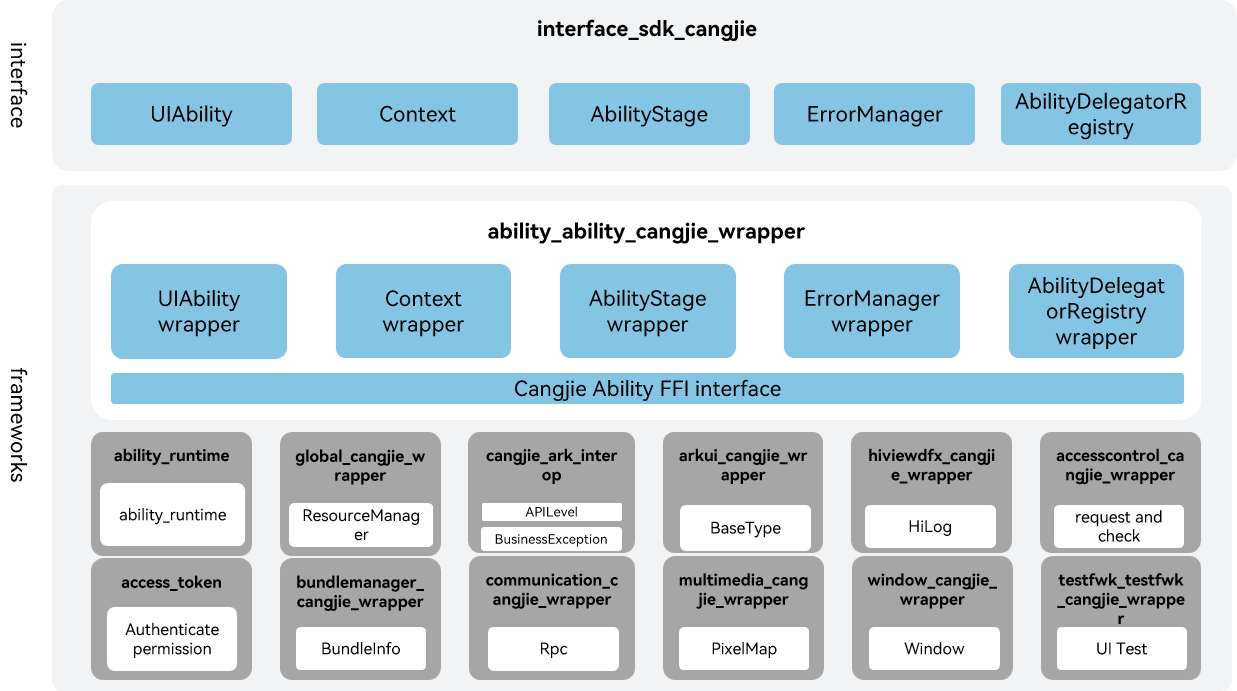
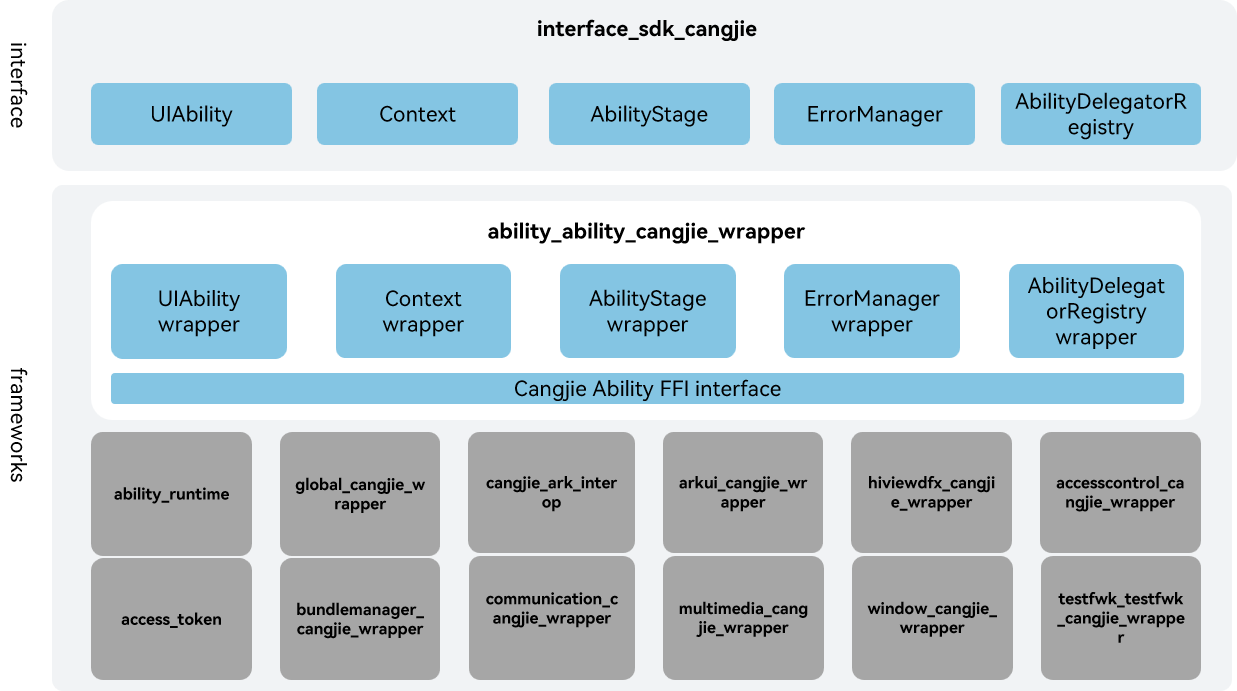
fix_readme

Changed region(s): [[0.0614, 0.6382, 0.983, 0.9725], [0.0922, 0.6382, 0.1843, 0.6686], [0.6758, 0.4255, 0.7065, 0.4559]]

diff --git a/README_zh.md b/README_zh.md
@@ -1,8 +1,8 @@
-# 元能力仓颉接口
+# 元能力仓颉封装
 
 ## 简介
 
-元能力仓颉接口是在OpenHarmony上基于元能力子系统能力之上封装的仓颉API。元能力子系统实现对Ability的运行及生命周期进行统一的调度和管理，应用进程能够支撑多个Ability，Ability具有跨应用进程间和同一进程内调用的能力。Ability管理服务统一调度和管理应用中各Ability，并对Ability的生命周期变更进行管理。当前开放的元能力仓颉接口仅支持standard设备。
+元能力仓颉封装实现对Ability的运行及生命周期进行统一的调度和管理，应用进程能够支撑多个Ability，Ability具有跨应用进程间和同一进程内调用的能力。Ability管理服务统一调度和管理应用中各Ability，并对Ability的生命周期变更进行管理。当前开放的元能力仓颉接口仅支持standard设备。
 
 ## 系统架构
 
@@ -12,23 +12,36 @@
 
 如架构图所示：
 
-- UIAbility：UIAbility是包含UI界面的应用组件，提供UIAbility组件创建、销毁、前后台切换等生命周期回调的能力。开发者可通过继承此类来实现对UIAbility组件的监控能力。应用上下文提供了获取组件信息的能力。
-- 应用上下文：应用上下文提供了Ability或Application的上下文的基础能力，包括访问特定应用程序的资源等。UIAbility组件的上下文提供了拉起其他UIAbility、销毁UIAbility的能力。开发者可通过UIAbilityContext获取相关信息或拉起其他UIAbility。
-- 组件管理器：一个Module级别的组件管理器，用于进行Module级别的资源预加载、线程创建等初始化操作，以及维护Module下的应用状态。
-- 错误观测管理：提供了对错误观察器的注册和注销能力。当开发者需要注册或注销错误观察器时，可以使用其提供的接口。
-- 自动化测试框架管理：开发者可通过此模块来监视指定的Ability的生命周期状态更改和获取测试参数。
+接口层：
+
+- UIAbility：面向开发者提供的UIAbility的API能力。UIAbility是包含UI界面的应用组件，提供UIAbility组件创建、销毁、前后台切换等生命周期回调的能力。开发者可通过继承此类来实现对UIAbility组件的监控能力。应用上下文提供了获取组件信息的能力。
+- 应用上下文：面向开发者提供的应用上下文的API能力。应用上下文提供了Ability或Application的上下文的基础能力，包括访问特定应用程序的资源等。UIAbility组件的上下文提供了拉起其他UIAbility、销毁UIAbility的能力。开发者可通过UIAbilityContext获取相关信息或拉起其他UIAbility。
+- 组件管理器：面向开发者提供的组件管理器的API能力。一个Module级别的组件管理器，用于进行Module级别的资源预加载、线程创建等初始化操作，以及维护Module下的应用状态。
+- 错误观测管理：面向开发者提供的错误观测管理的API能力。提供了对错误观察器的注册和注销能力。当开发者需要注册或注销错误观察器时，可以使用其提供的接口。
+- 自动化测试框架管理：面向开发者提供的自动化测试框架管理API能力。开发者可通过此模块来监视指定的Ability的生命周期状态更改和获取测试参数。
+
+框架层：
+
+- UIAbility封装：基于底层元能力运行时部件提供的元能力基础功能封装，提供用户可继承的UIAbility类。
+- 应用上下文封装：基于底层元能力运行时部件提供的元能力基础功能封装，通过Context及其子类提供不同的上下文能力。
+- 组件管理器封装：基于底层元能力运行时部件提供的元能力基础功能封装，通过AbilityStage类提供组件管理器能力。
+- 错误观测管理封装：基于底层元能力运行时部件提供的元能力基础功能封装，通过ErrorManager类提供错误观测管理能力。
+- 自动化测试框架管理封装：基于底层元能力运行时部件提供的元能力基础功能封装，通过AbilityDelegator类及TestRunner类提供自动化测试框架管理能力。
 - 仓颉元能力FFI接口定义：负责定义C语言互操作仓颉接口，用于实现仓颉元能力的能力。
-- 元能力基础框架模块：负责提供元能力基础功能，封装C语言接口提供给仓颉进行互操作。
-- 访问控制部件：负责提供鉴权模块，用于在应用上下文中鉴定权限是否被授予。
-- cangjie_ark_interop：负责提供仓颉注解类定义，用于对API进行标注。以及提供抛向用户的BusinessException异常类定义。
+
+架构图中的依赖部件引入说明：
+
+- 元能力运行时部件：元能力仓颉封装依赖元能力运行时部件提供的元能力基础功能。
+- 访问控制部件：应用上下文依赖访问控制部件提供的鉴权能力。
+- cangjie_ark_interop：负责提供仓颉注解类定义和BusinessException异常类定义。元能力仓颉封装依赖此部件用于对API进行标注，及在错误分支向用户抛出异常。
 - arkui_cangjie_wrapper：负责提供仓颉UI组件接口及基础类型。应用上下文依赖其中的基础类型的定义和解析。
-- hiviewdfx_cangjie_wrapper：负责提供日志接口，用于在关键路径处打印日志。
-- global_cangjie_wrapper：提供应用资源获取的能力，用户可通过应用上下文实例获取ResourceManager实例。
-- bundlemanager_cangjie_wrapper：提供获取应用包信息的定义，用户可通过应用上下文获取ApplicationInfo和HapModuleInfo。
+- hiviewdfx_cangjie_wrapper：负责提供日志接口。元能力仓颉封装依赖此部件用于在关键路径处打印日志。
+- global_cangjie_wrapper：提供应用资源获取的能力。用户可通过应用上下文实例获取ResourceManager实例。
+- bundlemanager_cangjie_wrapper：提供获取应用包信息的定义。用户可通过应用上下文获取ApplicationInfo和HapModuleInfo。
 - communication_cangjie_wrapper：提供基础类型及数组、IPC对象、接口描述符和自定义序列化对象等用来通信的数据格式。应用上下文依赖其中的IRemoteObject进行通信。
 - multimedia_cangjie_wrapper：提供使用媒体资源的能力。应用上下文依赖其中的PixelMap以设置任务图标。
 - window_cangjie_wrapper：提供窗口实例管理能力。UIAbility依赖其中的WindowStage以加载UI组件。
-- accesscontrol_cangjie_wrapper：提供应用程序的权限校验、申请和管理能力。ability_cangjie_wrapper中定义的AbilityKit包含此模块。
+- accesscontrol_cangjie_wrapper：提供应用程序的权限校验、申请和管理能力。元能力仓颉封装中定义的AbilityKit包含此模块。
 - testfwk_cangjie_wrapper：提供单元测试框架以及UI测试框架。自动化测试框架管理封装依赖其中的UI测试框架。
 
 ## 目录
@@ -71,14 +84,15 @@ foundation/ability/ability_cangjie_wrapper
   - 框架测试模块可用于运行测试用例。
 
 
+元能力相关API请参见[仓颉元能力API文档](https://gitcode.com/openharmony-sig/arkcompiler_cangjie_ark_interop/tree/master/doc/API_Reference/source_zh_cn/apis/AbilityKit)，相关指导请参见[程序框架服务开发指南](https://gitcode.com/openharmony-sig/arkcompiler_cangjie_ark_interop/blob/master/doc/Dev_Guide/source_zh_cn/application-models/cj-abilitykit-overview.md)。
+
+## 约束
+
 与ArkTS提供的API能力相比，暂不支持以下功能：
 
   - 支持特定场景拓展能力的ExtensionAbility。
   - 对接端侧意图框架的意图执行基类。
   - 应用启动框架AppStartup的相关能力。
-
-
-元能力相关API请参见[仓颉元能力API文档](https://gitcode.com/openharmony-sig/arkcompiler_cangjie_ark_interop/tree/master/doc/API_Reference/source_zh_cn/apis/AbilityKit)，相关指导请参见[程序框架服务开发指南](https://gitcode.com/openharmony-sig/arkcompiler_cangjie_ark_interop/blob/master/doc/Dev_Guide/source_zh_cn/application-models/cj-abilitykit-overview.md)。
 
 ## 参与贡献
 

diff --git a/README.md b/README.md
@@ -12,11 +12,21 @@ The ability_cangjie_wrapper is a Cangjie API encapsulated on OpenHarmony based o
 
 As shown in the architecture:
 
+interface: Provides APIs for developers.
+
 - UIAbility: UIAbility is an application component that has the UI. It provides lifecycle callbacks such as component creation, destruction, and foreground/background switching. Users can inherit this class to implement monitoring capabilities for UIAbility components.
 - Context: The Context provides the capabilities to obtain component information. The UIAbilityContext provides the capabilities to launch or destroy other UIAbility. Users can obtain relevant information or launch other UIAbility through UIAbilityContext.
 - AbilityStage: AbilityStage is a component container at the module level. When the HAP or HSP of an application is loaded for the first time, an AbilityStage instance is created. You can use the instance to perform initialization operations such as resource preloading and thread creation at the module level.
 - ErrorManager: The ErrorManager Module provides the capabilities to register and unregister error observers. When users need to register or unregister an error observer, they can use the interfaces provided by this module.
 - AbilityDelegatorRegistry: Users can monitor lifecycle state changes of a specified Ability and obtain test parameters through the AbilityDelegatorRegistry Module.
+
+frameworks:
+
+- UIAbility wrapper: Implementation encapsulation of Cangjie UIAbility, providing a UIAbility class that users can inherit.
+- Context wrapper: Cangjie application context encapsulation, providing different context capabilities through Context and its subclasses.
+- AbilityStage wrapper: Cangjie component manager encapsulation, encapsulating the AbilityStage class to provide component management capabilities.
+- ErrorManager wrapper: Cangjie error observation management encapsulation, encapsulating the ErrorObserver class to provide error observation management capabilities.
+- AbilityDelegatorRegistry wrapper: Cangjie automated test framework management encapsulation, encapsulating the AbilityDelegator and TestRunner classes to provide automated test framework management capabilities.
 - Cangjie Ability FFI interface: Based on cross-language interoperability via C interfaces to implement ability Cangjie API.
 - ability_runtime: It is responsible for providing basic functions of ability, and encapsulates C interfaces to provide interoperability for Cangjie.
 - access_token: Provides authorization modules for querying whether permissions have been granted. Depends on its authorization module.
@@ -70,18 +80,19 @@ The following features are provided:
   - AbilityDelegatorRegistry Module can be used to monitor lifecycle state changes of a specified Ability and obtain test parameters through.
   - Test cases can be run through the TestRunner Module.
 
+For Ability-related APIs, please refer to [ohos.app.ability (Ability)](https://gitcode.com/openharmony-sig/arkcompiler_cangjie_ark_interop/tree/master/doc/API_Reference/source_en/apis/AbilityKit). For relevant guidance, please refer to [Ability Kit Guide](https://gitcode.com/openharmony-sig/arkcompiler_cangjie_ark_interop/blob/master/doc/Dev_Guide/source_en/application-models/cj-abilitykit-overview.md).
+
+## Code Contribution
+
+Developers are welcome to contribute code, documentation, etc. For specific contribution processes and methods, please refer to [Code Contribution](https://gitcode.com/openharmony/docs/blob/master/en/contribute/code-contribution.md).
+
+## Constraints
 
 The following features are not provided yet:
 
  - ExtensionAbility which for scenario-specific ExtensionAbilities.
  - InsightIntent Module.
  - AppStartup Module.
-
-For Ability-related APIs, please refer to [ohos.app.ability (Ability)](https://gitcode.com/openharmony-sig/arkcompiler_cangjie_ark_interop/tree/master/doc/API_Reference/source_en/apis/AbilityKit). For relevant guidance, please refer to [Ability Kit Guide](https://gitcode.com/openharmony-sig/arkcompiler_cangjie_ark_interop/blob/master/doc/Dev_Guide/source_en/application-models/cj-abilitykit-overview.md).
-
-## Code Contribution
-
-Developers are welcome to contribute code, documentation, etc. For specific contribution processes and methods, please refer to [Code Contribution](https://gitcode.com/openharmony/docs/blob/master/en/contribute/code-contribution.md).
 
 ## Repositories Involved
 
